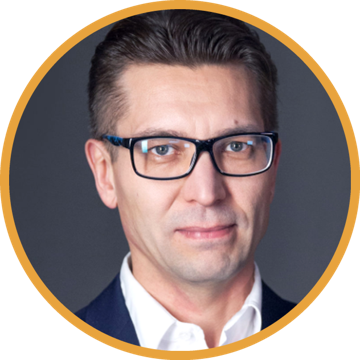
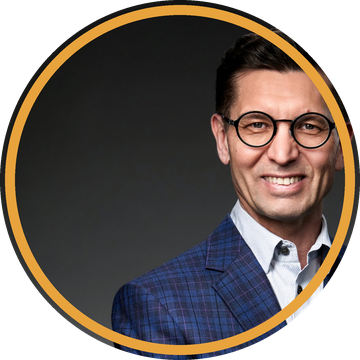
Мероприятия из таблицы (колонки C, D, F по метке x в I), новое фото Ильгиза, убраны Партнёры 3–5
Claude-Session: https://claude.ai/code/session_01KDfoHpfMkfXwFzRtU5VQr1

diff --git a/index.html b/index.html
@@ -65,7 +65,7 @@ header{position:sticky;top:0;z-index:20;background:rgba(35,35,37,.92);backdrop-f
 .hero-text{position:relative;z-index:1;max-width:min(640px,56%)}
 .hero h1{font-size:clamp(34px,5.2vw,68px);font-weight:800;max-width:15ch}
 .events-sec{position:relative;overflow:hidden}
-.events-ph{position:absolute;left:0;top:0;height:100%;width:min(40%,620px);object-fit:cover;object-position:100% 18%;pointer-events:none}
+.events-ph{position:absolute;left:0;top:0;height:100%;width:min(40%,620px);object-fit:cover;object-position:100% 4%;pointer-events:none}
 .events-body{position:relative;z-index:1;margin-left:min(38%,560px)}
 .events-body .events{grid-template-columns:1fr}
 .events-cap{position:absolute;left:clamp(20px,3vw,48px);bottom:clamp(20px,3vw,40px);z-index:1;font-size:14px;color:var(--muted)}
@@ -282,18 +282,38 @@ footer img{height:36px;width:auto}
     <div class="eyebrow">Мероприятия АИМ</div>
     <h2>Приходите знакомиться</h2>
     <div class="events">
+      <!--EVENTS-->
       <div class="card ev reveal">
-        <div class="when"><span class="pill a">15 октября · 10:00</span><span class="pill">Москва · офлайн</span><span class="pill">Бесплатно</span></div>
-        <h3>Бизнес-завтрак «Интерим-менеджмент как следующая ступень карьеры»</h3>
-        <p class="small">Ресторан «River Side», Фрунзенская наб. 32. Живой разговор за одним столом с Андреем Фоминым и хедхантером Ильгизом Валинуровым. Всего 10 мест.</p>
-        <a class="btn" href="https://forms.yandex.ru/u/6ac7467784227c0026ed4c16" target="_blank" rel="noopener">Зарегистрироваться</a>
+        <div class="when"><span class="pill a">19 ноября</span><span class="pill">Москва</span></div>
+        <h3>Бизнес-завтрак &quot;Интерим, как следующая ступень карьерной лестницы&quot;. Только 15 человек.</h3>
+        <a class="btn" href="https://t.me/AndreyAFomin" target="_blank" rel="noopener">Узнать подробнее</a>
       </div>
       <div class="card ev reveal">
-        <div class="when"><span class="pill a">15 октября · 19:00</span><span class="pill">Онлайн</span></div>
-        <h3>Старт второго потока в Школе интеримов</h3>
-        <p class="small">Первая живая встреча потока: знакомство с тренерами и введение в программу. Успейте занять место в группе.</p>
-        <a class="btn ghost" href="school/">Подробнее о Школе</a>
+        <div class="when"><span class="pill a">19 ноября</span><span class="pill">Москва</span></div>
+        <h3>Сигарный клуб, 20к стандарт</h3>
+        <a class="btn" href="https://t.me/AndreyAFomin" target="_blank" rel="noopener">Узнать подробнее</a>
       </div>
+      <div class="card ev reveal">
+        <div class="when"><span class="pill a">26 ноября</span><span class="pill">Санкт-Петербург</span></div>
+        <h3>Квартирник со Станиславом Логуновым, бизнесмен, миллиардер, строительная отрасль</h3>
+        <a class="btn" href="https://t.me/AndreyAFomin" target="_blank" rel="noopener">Узнать подробнее</a>
+      </div>
+      <div class="card ev reveal">
+        <div class="when"><span class="pill a">27 ноября</span><span class="pill">Санкт-Петербург</span></div>
+        <h3>Бизнес-завтрак &quot;Карьера топ-менеджера&quot;</h3>
+        <a class="btn" href="https://t.me/AndreyAFomin" target="_blank" rel="noopener">Узнать подробнее</a>
+      </div>
+      <div class="card ev reveal">
+        <div class="when"><span class="pill a">27 ноября</span><span class="pill">Санкт-Петербург</span></div>
+        <h3>Форум РБ Про &quot;Базовые стратегии&quot;</h3>
+        <a class="btn" href="https://t.me/AndreyAFomin" target="_blank" rel="noopener">Узнать подробнее</a>
+      </div>
+      <div class="card ev reveal">
+        <div class="when"><span class="pill a">27 ноября</span><span class="pill">Санкт-Петербург</span></div>
+        <h3>Квартирник после форума РБ Про &quot;Базовые стратегии&quot;. О главном без камер</h3>
+        <a class="btn" href="https://t.me/AndreyAFomin" target="_blank" rel="noopener">Узнать подробнее</a>
+      </div>
+      <!--/EVENTS-->
     </div>
    </div>
   </div>
@@ -419,11 +439,6 @@ footer img{height:36px;width:auto}
         <div><h3>Ильгиз Валинуров</h3><div class="role">Партнёр АИМ, хедхантер</div>
         <ul><li>30 000 собеседований с топ-менеджерами</li><li>Автор 12 книг о поиске персонала и карьере</li><li>Трижды карьерный консультант года</li><li>Преподаватель MBA</li></ul></div>
       </div>
-    </div>
-    <div class="team-soon">
-      <div class="card person soon reveal"><div class="ph-av" role="img" aria-label="Фото партнёра появится позже"></div><div><h3>Партнёр 3</h3><div class="role">Скоро в команде</div></div></div>
-      <div class="card person soon reveal"><div class="ph-av" role="img" aria-label="Фото партнёра появится позже"></div><div><h3>Партнёр 4</h3><div class="role">Скоро в команде</div></div></div>
-      <div class="card person soon reveal"><div class="ph-av" role="img" aria-label="Фото партнёра появится позже"></div><div><h3>Партнёр 5</h3><div class="role">Скоро в команде</div></div></div>
     </div>
   </div>
 </section>

diff --git a/tools/build_events.py b/tools/build_events.py
@@ -1,0 +1,58 @@
+# -*- coding: utf-8 -*-
+"""Читает data/events.xlsx и обновляет блок мероприятий в index.html.
+Берутся только строки, где в колонке I стоит x. Используются колонки:
+C - дата, D - город, F (или E, если F пуста) - описание."""
+import re, sys, html, datetime
+from openpyxl import load_workbook
+
+X_COL, DATE_COL, CITY_COL, TEXT_COLS = 'I', 'C', 'D', ('F', 'E')
+MONTHS = ['января','февраля','марта','апреля','мая','июня','июля','августа','сентября','октября','ноября','декабря']
+CONTACT = 'https://t.me/AndreyAFomin'
+
+def fmt_date(v):
+    if isinstance(v, (datetime.datetime, datetime.date)):
+        return f'{v.day} {MONTHS[v.month-1]}'
+    s = str(v or '').strip()
+    m = re.match(r'(\d{1,2})\s+([А-Яа-яЁё]+)', s)
+    if m:
+        d, mon = m.group(1), m.group(2).lower()
+        for full in MONTHS:
+            if full.startswith(mon[:3]): return f'{d} {full}'
+    return s
+
+def city(v):
+    s = str(v or '').strip()
+    return 'Санкт-Петербург' if s.lower() in ('с-петербург', 'спб', 'санкт-петербург') else s
+
+def sort_key(row):
+    m = re.match(r'(\d+)\s+(\S+)', row['date'])
+    if not m: return (99, 99)
+    return (next((i for i, n in enumerate(MONTHS) if n == m.group(2)), 99), int(m.group(1)))
+
+def main(xlsx='data/events.xlsx', page='index.html'):
+    ws = load_workbook(xlsx, data_only=True).active
+    rows = []
+    for r in range(1, ws.max_row + 1):
+        if str(ws[f'{X_COL}{r}'].value or '').strip().lower() != 'x': continue
+        text = next((str(ws[f'{c}{r}'].value).strip() for c in TEXT_COLS if ws[f'{c}{r}'].value), '')
+        if not text: continue
+        rows.append(dict(date=fmt_date(ws[f'{DATE_COL}{r}'].value), city=city(ws[f'{CITY_COL}{r}'].value), text=text))
+    rows.sort(key=sort_key)
+    cards = []
+    for e in rows:
+        cards.append(f'''      <div class="card ev reveal">
+        <div class="when"><span class="pill a">{html.escape(e['date'])}</span><span class="pill">{html.escape(e['city'])}</span></div>
+        <h3>{html.escape(e['text'])}</h3>
+        <a class="btn" href="{CONTACT}" target="_blank" rel="noopener">Узнать подробнее</a>
+      </div>''')
+    if not cards:
+        cards = ['      <div class="card ev reveal"><h3>Ближайшие мероприятия скоро появятся</h3><a class="btn" href="%s" target="_blank" rel="noopener">Следить в Telegram</a></div>' % CONTACT]
+    block = '<!--EVENTS-->\n' + '\n'.join(cards) + '\n      <!--/EVENTS-->'
+    s = open(page, encoding='utf-8').read()
+    s2, n = re.subn(r'<!--EVENTS-->.*?<!--/EVENTS-->', lambda m: block, s, flags=re.S)
+    if n != 1: sys.exit('Маркеры EVENTS не найдены')
+    open(page, 'w', encoding='utf-8').write(s2)
+    print(f'Мероприятий на сайте: {len(rows)}')
+
+if __name__ == '__main__':
+    main(*sys.argv[1:])
